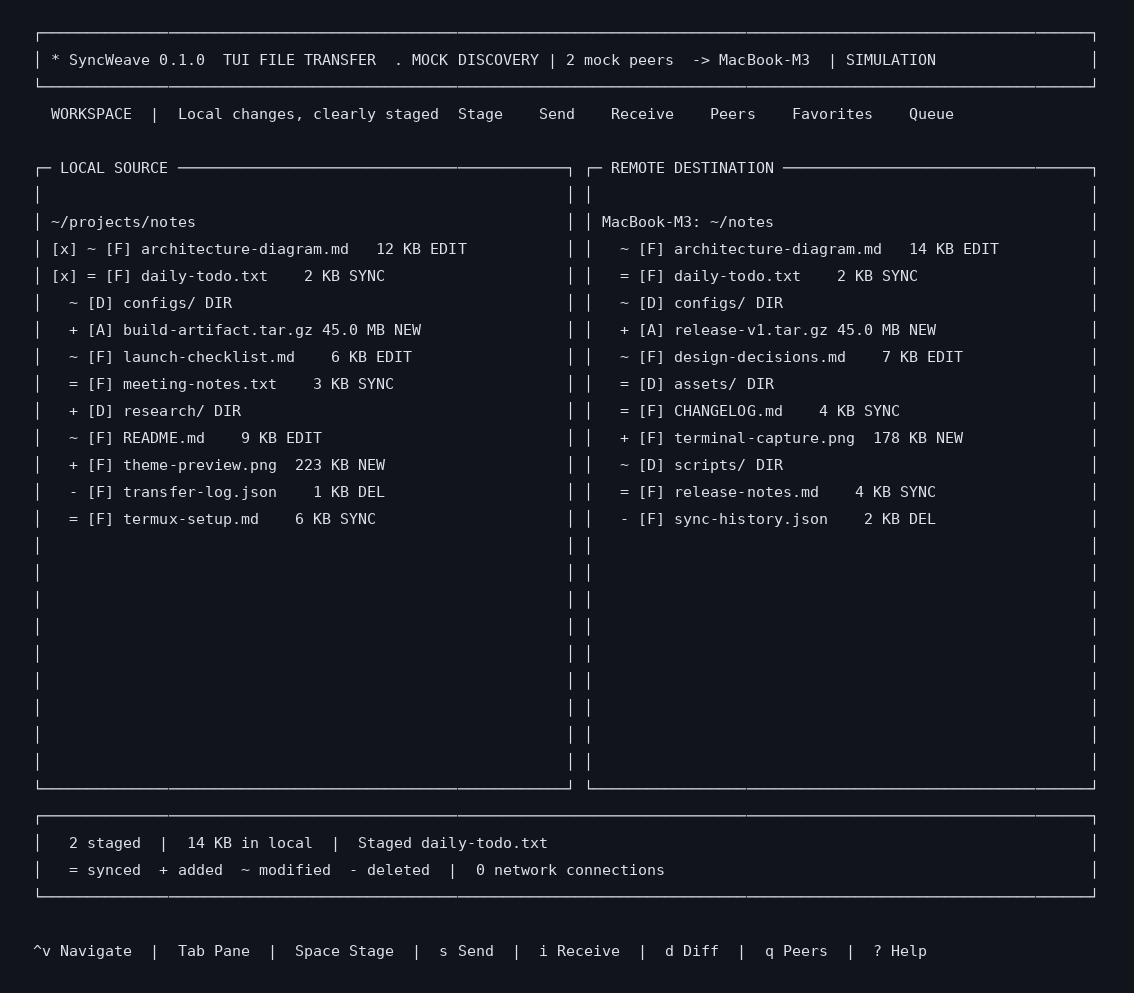
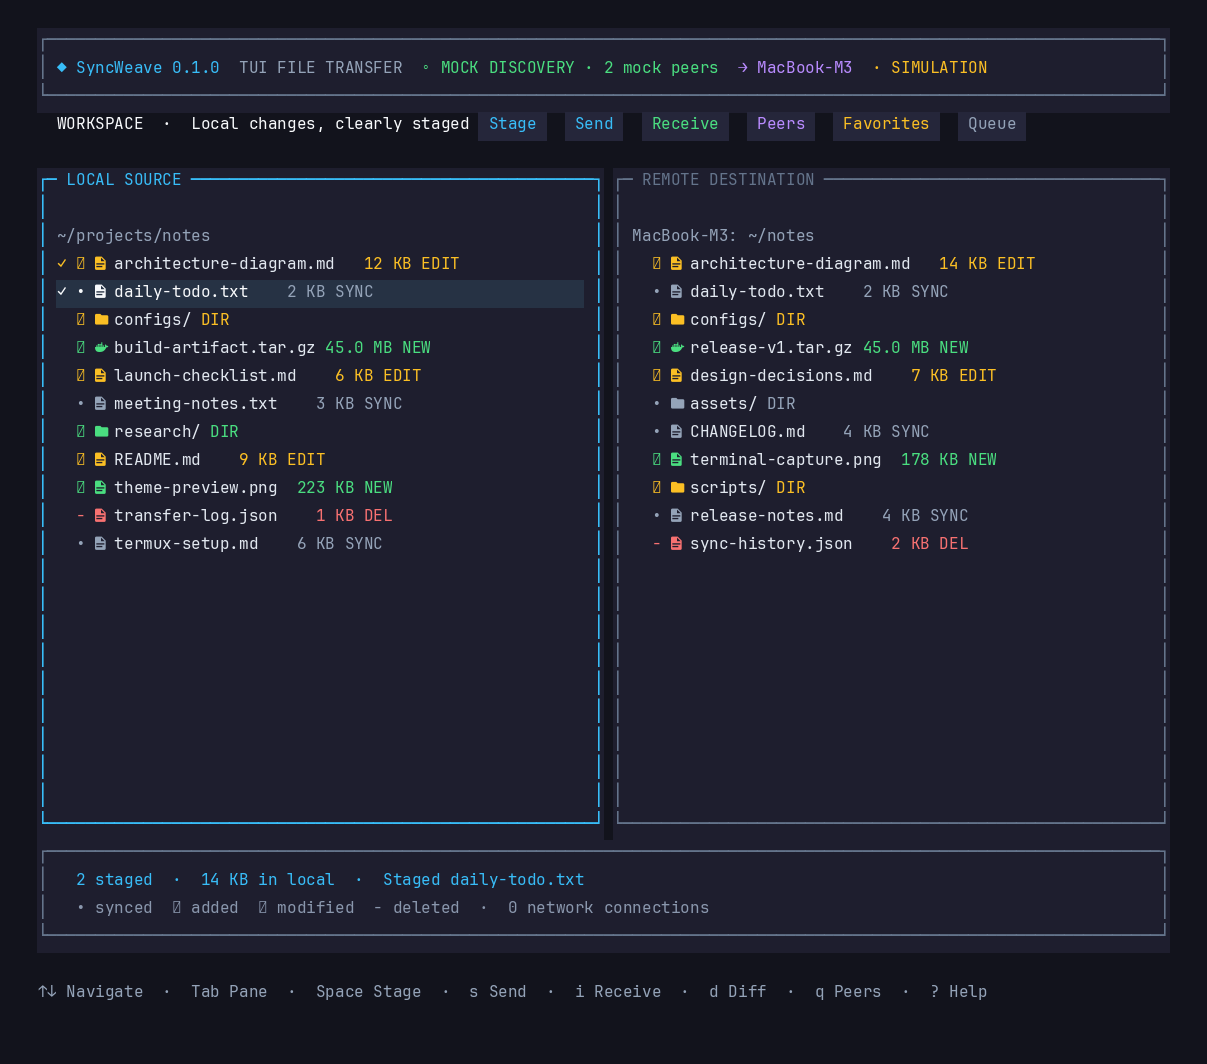
docs: real full-color screenshots in README
Replace the ASCII-mode captures with true-color screenshots rendered
from the app's styled span output (captureSpans), using a Nerd Font —
what a user actually sees: theme colors, file-type icons, consent
accents. Regenerable via scripts/capture-screens.ts + frames-to-png.py.

Changed region(s): [[0.0309, 0.0312, 0.9877, 0.9678]]

diff --git a/scripts/capture-screens.ts b/scripts/capture-screens.ts
@@ -1,4 +1,4 @@
-/** Capture TUI screens as text frames for README screenshots. */
+/** Capture TUI screens as styled spans for true-color README screenshots. */
 import { writeFileSync, mkdirSync } from "node:fs"
 import { createTestRenderer } from "@opentui/core/testing"
 import { createSyncWeaveApp, type AppDependencies } from "../src/app.js"
@@ -7,6 +7,7 @@ import { MockPeerService } from "../src/services/mock-peer-service.js"
 import { mockDestinations, MockTransferService } from "../src/services/mock-transfer-service.js"
 
 process.env.SYNCWEAVE_REDUCED_MOTION = "1"
+// NOTE: NOT setting SYNCWEAVE_ASCII — capture what a real user sees.
 
 const OUT = "docs/screenshots"
 mkdirSync(OUT, { recursive: true })
@@ -20,50 +21,33 @@ function mockDependencies(): AppDependencies {
   }
 }
 
-async function capture(name: string, setup: () => Promise<void>, width = 120, height = 36) {
-  const renderer = await createTestRenderer({ width, height })
-  const app = createSyncWeaveApp(renderer.renderer, mockDependencies())
-  await renderer.flush()
-  await setup()
-  await renderer.flush()
-  // Let any animation settle
-  await new Promise((r) => setTimeout(r, 100))
-  await renderer.flush()
-  const frame = renderer.captureCharFrame()
-  writeFileSync(`${OUT}/${name}.txt`, frame)
-  console.log(`captured ${name}: ${frame.split("\n").length} lines`)
-  app.dispose()
-  await renderer.renderer.destroy()
-}
+type Span = { text: string; fg: [number, number, number]; bg: [number, number, number] }
 
-// 1. Workspace (default)
-await capture("01-workspace", async () => {})
-
-// 2. Workspace with staged files
-await capture("02-workspace-staged", async () => {
-  // stage handled inside via direct access below
-})
-
-// We'll do interactive ones with direct app access
-import { createTestRenderer as ctr } from "@opentui/core/testing"
-
-async function interactive(name: string, actions: (ctx: { setup: any; app: any }) => Promise<void>, width = 120, height = 36) {
-  const setup = await ctr({ width, height })
+async function capture(name: string, actions: (ctx: { setup: any; app: any }) => Promise<void>, width = 120, height = 36) {
+  const setup = await createTestRenderer({ width, height })
   const app = createSyncWeaveApp(setup.renderer, mockDependencies())
   await setup.flush()
   await actions({ setup, app })
   await setup.flush()
-  await new Promise((r) => setTimeout(r, 100))
+  await new Promise((r) => setTimeout(r, 150))
   await setup.flush()
-  const frame = setup.captureCharFrame()
-  writeFileSync(`${OUT}/${name}.txt`, frame)
-  console.log(`captured ${name}`)
+  const captured = setup.captureSpans() as { cols: number; rows: number; lines: Array<{ spans: any[] }> }
+  const lines: Span[][] = captured.lines.map((line) =>
+    line.spans.map((s) => ({
+      text: s.text as string,
+      fg: [s.fg.buffer[0], s.fg.buffer[1], s.fg.buffer[2]] as [number, number, number],
+      bg: [s.bg.buffer[0], s.bg.buffer[1], s.bg.buffer[2]] as [number, number, number],
+    })),
+  )
+  writeFileSync(`${OUT}/${name}.spans.json`, JSON.stringify({ cols: captured.cols, rows: captured.rows, lines }))
+  console.log(`captured ${name}: ${lines.length} rows`)
   app.dispose()
-  await setup.renderer.destroy()
+  try { await setup.renderer.destroy() } catch {}
 }
 
-// Workspace with staged files: press space on a few entries
-await interactive("02-workspace-staged", async ({ setup }) => {
+await capture("01-workspace", async () => {})
+
+await capture("02-workspace-staged", async ({ setup }) => {
   setup.mockInput.pressKey(" ")
   await setup.flush()
   setup.mockInput.pressKey("ARROW_DOWN")
@@ -72,8 +56,7 @@ await interactive("02-workspace-staged", async ({ setup }) => {
   await setup.flush()
 })
 
-// Send review screen
-await interactive("03-send-review", async ({ setup }) => {
+await capture("03-send-review", async ({ setup }) => {
   setup.mockInput.pressKey(" ")
   await setup.flush()
   setup.mockInput.pressKey("ARROW_DOWN")
@@ -84,31 +67,26 @@ await interactive("03-send-review", async ({ setup }) => {
   await setup.flush()
 })
 
-// Incoming consent screen
-await interactive("04-consent-incoming", async ({ setup }) => {
+await capture("04-consent-incoming", async ({ setup }) => {
   setup.mockInput.pressKey("i")
   await setup.flush()
 })
 
-// Help screen
-await interactive("05-help", async ({ setup }) => {
+await capture("05-help", async ({ setup }) => {
   setup.mockInput.pressKey("?")
   await setup.flush()
 })
 
-// Peers screen
-await interactive("06-peers", async ({ setup }) => {
+await capture("06-peers", async ({ setup }) => {
   setup.mockInput.pressKey("q")
   await setup.flush()
 })
 
-// Transfer progress: accept incoming and catch it mid-flight
-await interactive("07-transfer", async ({ setup, app }) => {
+await capture("07-transfer", async ({ setup }) => {
   setup.mockInput.pressKey("i")
   await setup.flush()
-  setup.mockInput.pressEnter() // accept all
+  setup.mockInput.pressEnter()
   await setup.flush()
-  // transfer screen should be showing or progress running
 })
 
 console.log("done")

diff --git a/scripts/frames-to-png.py b/scripts/frames-to-png.py
@@ -1,37 +1,49 @@
-"""Render captured TUI text frames as terminal-style PNG screenshots."""
+"""Render captured styled spans as true-color terminal PNGs."""
+import json
 from PIL import Image, ImageDraw, ImageFont
 from pathlib import Path
 
 SRC = Path("docs/screenshots")
-FONT_PATH = "/usr/share/fonts/truetype/dejavu/DejaVuSansMono.ttf"
-# Fallback for Nerd Font glyphs / braille: DejaVu covers most; missing glyphs render as boxes.
-BG = (18, 20, 28)
-FG = (220, 224, 235)
-PADDING = 24
+FONT_PATH = "/home/hatch/.fonts/JetBrainsMonoNerdFont-Regular.ttf"
+PADDING = 28
 
-def render(txt_path: Path, out_path: Path, font_size: int = 15):
-    lines = txt_path.read_text().split("\n")
-    # Drop trailing empty lines, keep the frame tight
-    while lines and not lines[-1].strip():
-        lines.pop()
+def render(json_path: Path, font_size: int = 16):
+    data = json.loads(json_path.read_text())
+    lines = data["lines"]
     font = ImageFont.truetype(FONT_PATH, font_size)
-    # Measure with a representative wide char
-    bbox = font.getbbox("█" * 120)
-    char_w = (bbox[2] - bbox[0]) / 120
-    line_h = font.getbbox("█")[3] - font.getbbox("█")[1] + 8
-    max_len = max(len(l) for l in lines)
-    w = int(max_len * char_w) + PADDING * 2
-    h = int(len(lines) * line_h) + PADDING * 2
-    img = Image.new("RGB", (w, h), BG)
+    # Cell metrics from the font
+    ascent, descent = font.getmetrics()
+    line_h = ascent + descent + 6
+    # Use a wide sample for char width (monospace, but Nerd glyphs can be wide)
+    char_w = font.getlength("─" * 10) / 10
+    cols = data["cols"]
+    rows = len(lines)
+    w = int(cols * char_w) + PADDING * 2
+    h = int(rows * line_h) + PADDING * 2
+    # Background from first span's bg, fallback dark
+    bg0 = tuple(lines[0][0]["bg"]) if lines and lines[0] else (18, 20, 28)
+    img = Image.new("RGB", (w, h), bg0)
     d = ImageDraw.Draw(img)
     y = PADDING
     for line in lines:
-        d.text((PADDING, y), line, font=font, fill=FG)
+        x = PADDING
+        for span in line:
+            text = span["text"]
+            fg = tuple(span["fg"])
+            bg = tuple(span["bg"])
+            tw = font.getlength(text)
+            if bg != bg0:
+                d.rectangle([x, y, x + tw, y + line_h], fill=bg)
+            if text.strip():
+                d.text((x, y), text, font=font, fill=fg)
+            x += tw
         y += line_h
-    img.save(out_path)
-    print(f"{out_path.name}: {w}x{h}")
+    out = json_path.with_suffix(".png")
+    # Trim trailing empty rows for a tighter shot
+    img.save(out)
+    print(f"{out.name}: {w}x{h}")
 
-for txt in sorted(SRC.glob("*.txt")):
-    render(txt, txt.with_suffix(".png"))
+for jf in sorted(SRC.glob("*.spans.json")):
+    render(jf)
 
 print("done")

diff --git a/README.md b/README.md
@@ -45,7 +45,7 @@ Press `?` anywhere.
 
 ![Help screen](docs/screenshots/05-help.png)
 
-> Screenshots were captured from the app's own test renderer in mock mode (`SYNCWEAVE_ASCII=1`). The layout is identical in real mode; only the data is simulated.
+> Screenshots were captured from the app's own test renderer — real frames, real theme, real Nerd Font icons. Mock mode is shown; the layout is identical in real mode.
 
 ## Modes
 
